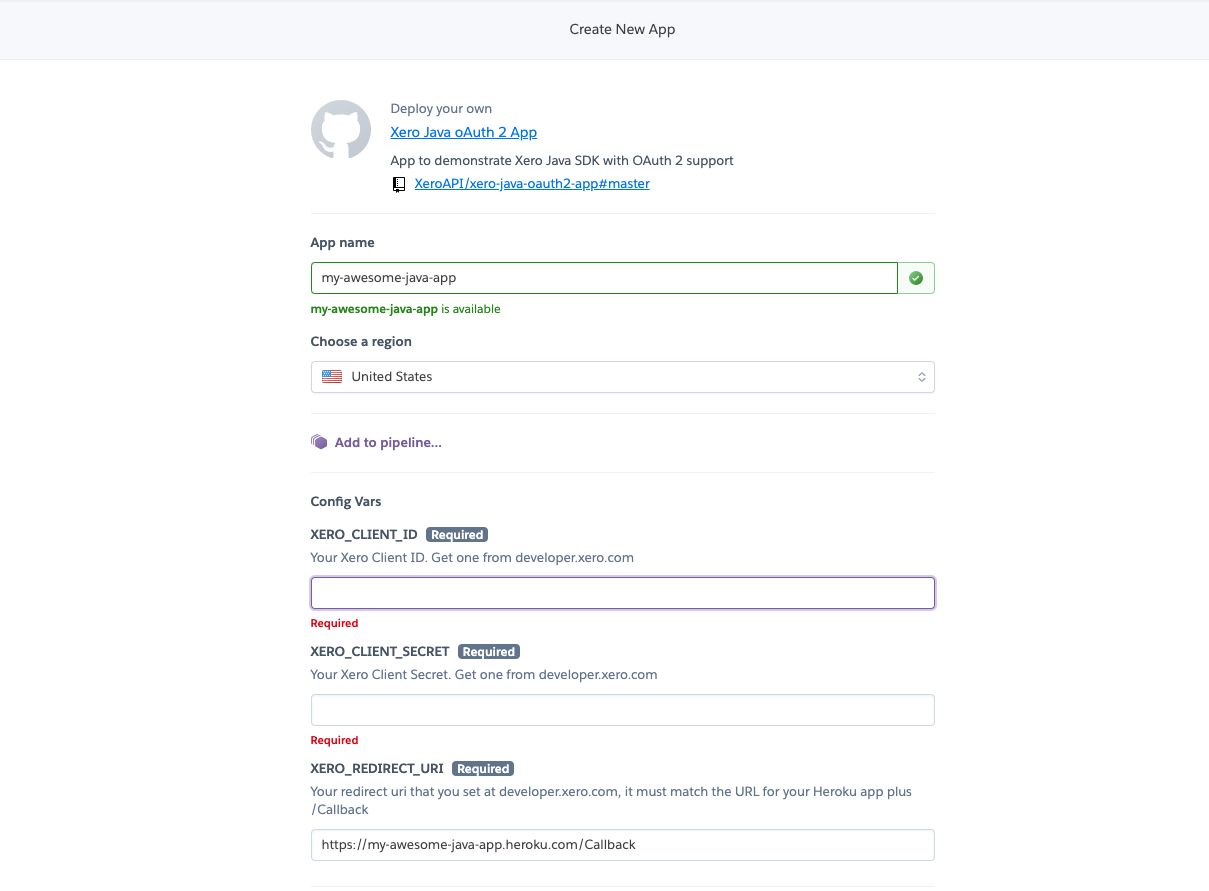
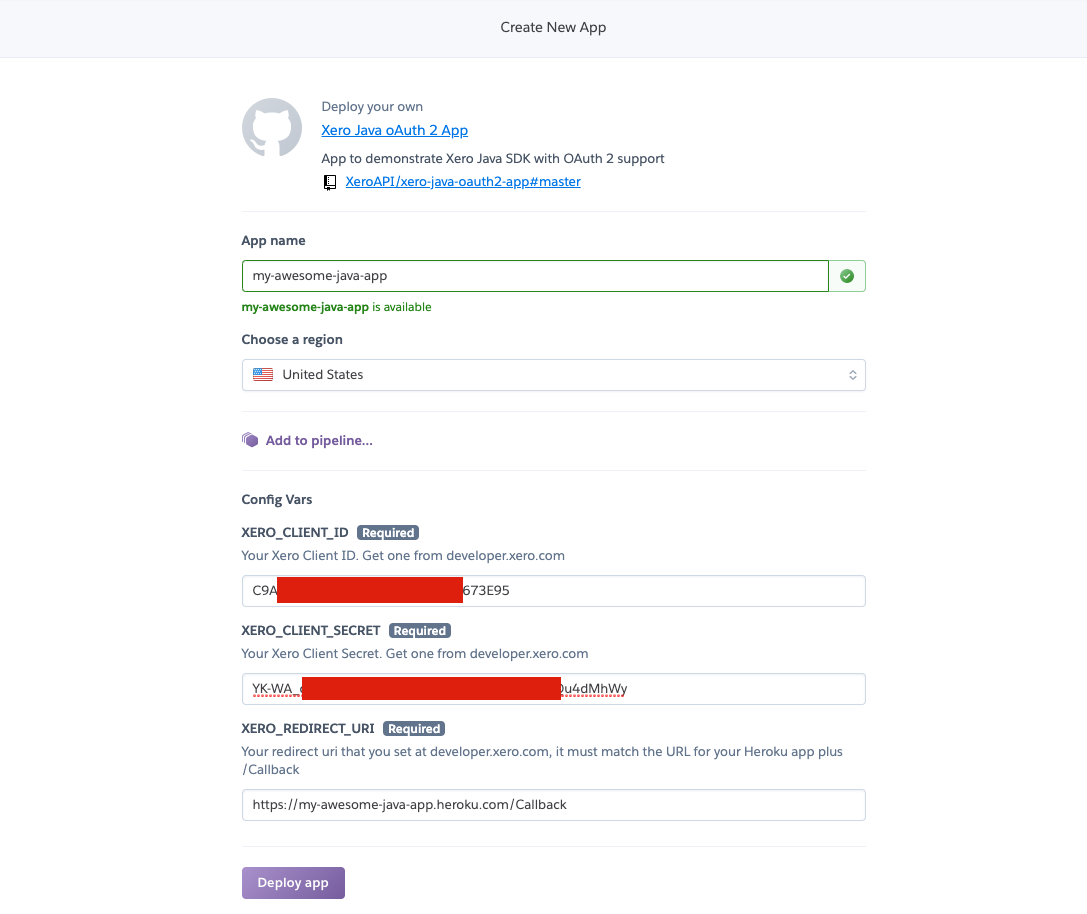
update readme

diff --git a/README.md b/README.md
@@ -10,7 +10,7 @@ Don't have a Heroku account, you can [create one for free](https://signup.heroku
 [![Deploy](https://www.herokucdn.com/deploy/button.svg)](https://heroku.com/deploy?template=https://github.com/SidneyAllen/xero-java-oauth2-app/tree/master)
 
 Give your new Heroku app a name.
-![Heroku : Create New App](images/heroku-newapp-02.png)
+![Heroku : Create New App](images/heroku-newapp-01.png)
 
 Notice, your redirectUri will include the name of your app.
 
@@ -28,9 +28,17 @@ To obtain your ClientId and ClientSecret, follow these steps and create a Xero a
 
 * Click "Generate a secret" button.
 * Copy your client id and client secret to Heroku form AND save for use later.
-* Click the "Save" button. You secret is now hidden.
+
+![Heroku : Create New App](images/heroku-newapp-02.png)
+
+* At developer.xero.com - click the "Save" button. You secret is now hidden.
 
 ![Xero : Generate secret](images/xero-newapp-01.png)
+
+* Click the "Deploy App" buttong ... app will build and deploy
+* Click the 
+
+![Heroku : Create New App](images/heroku-newapp-03.png)
 
 
 ## Import the project into Eclipse
